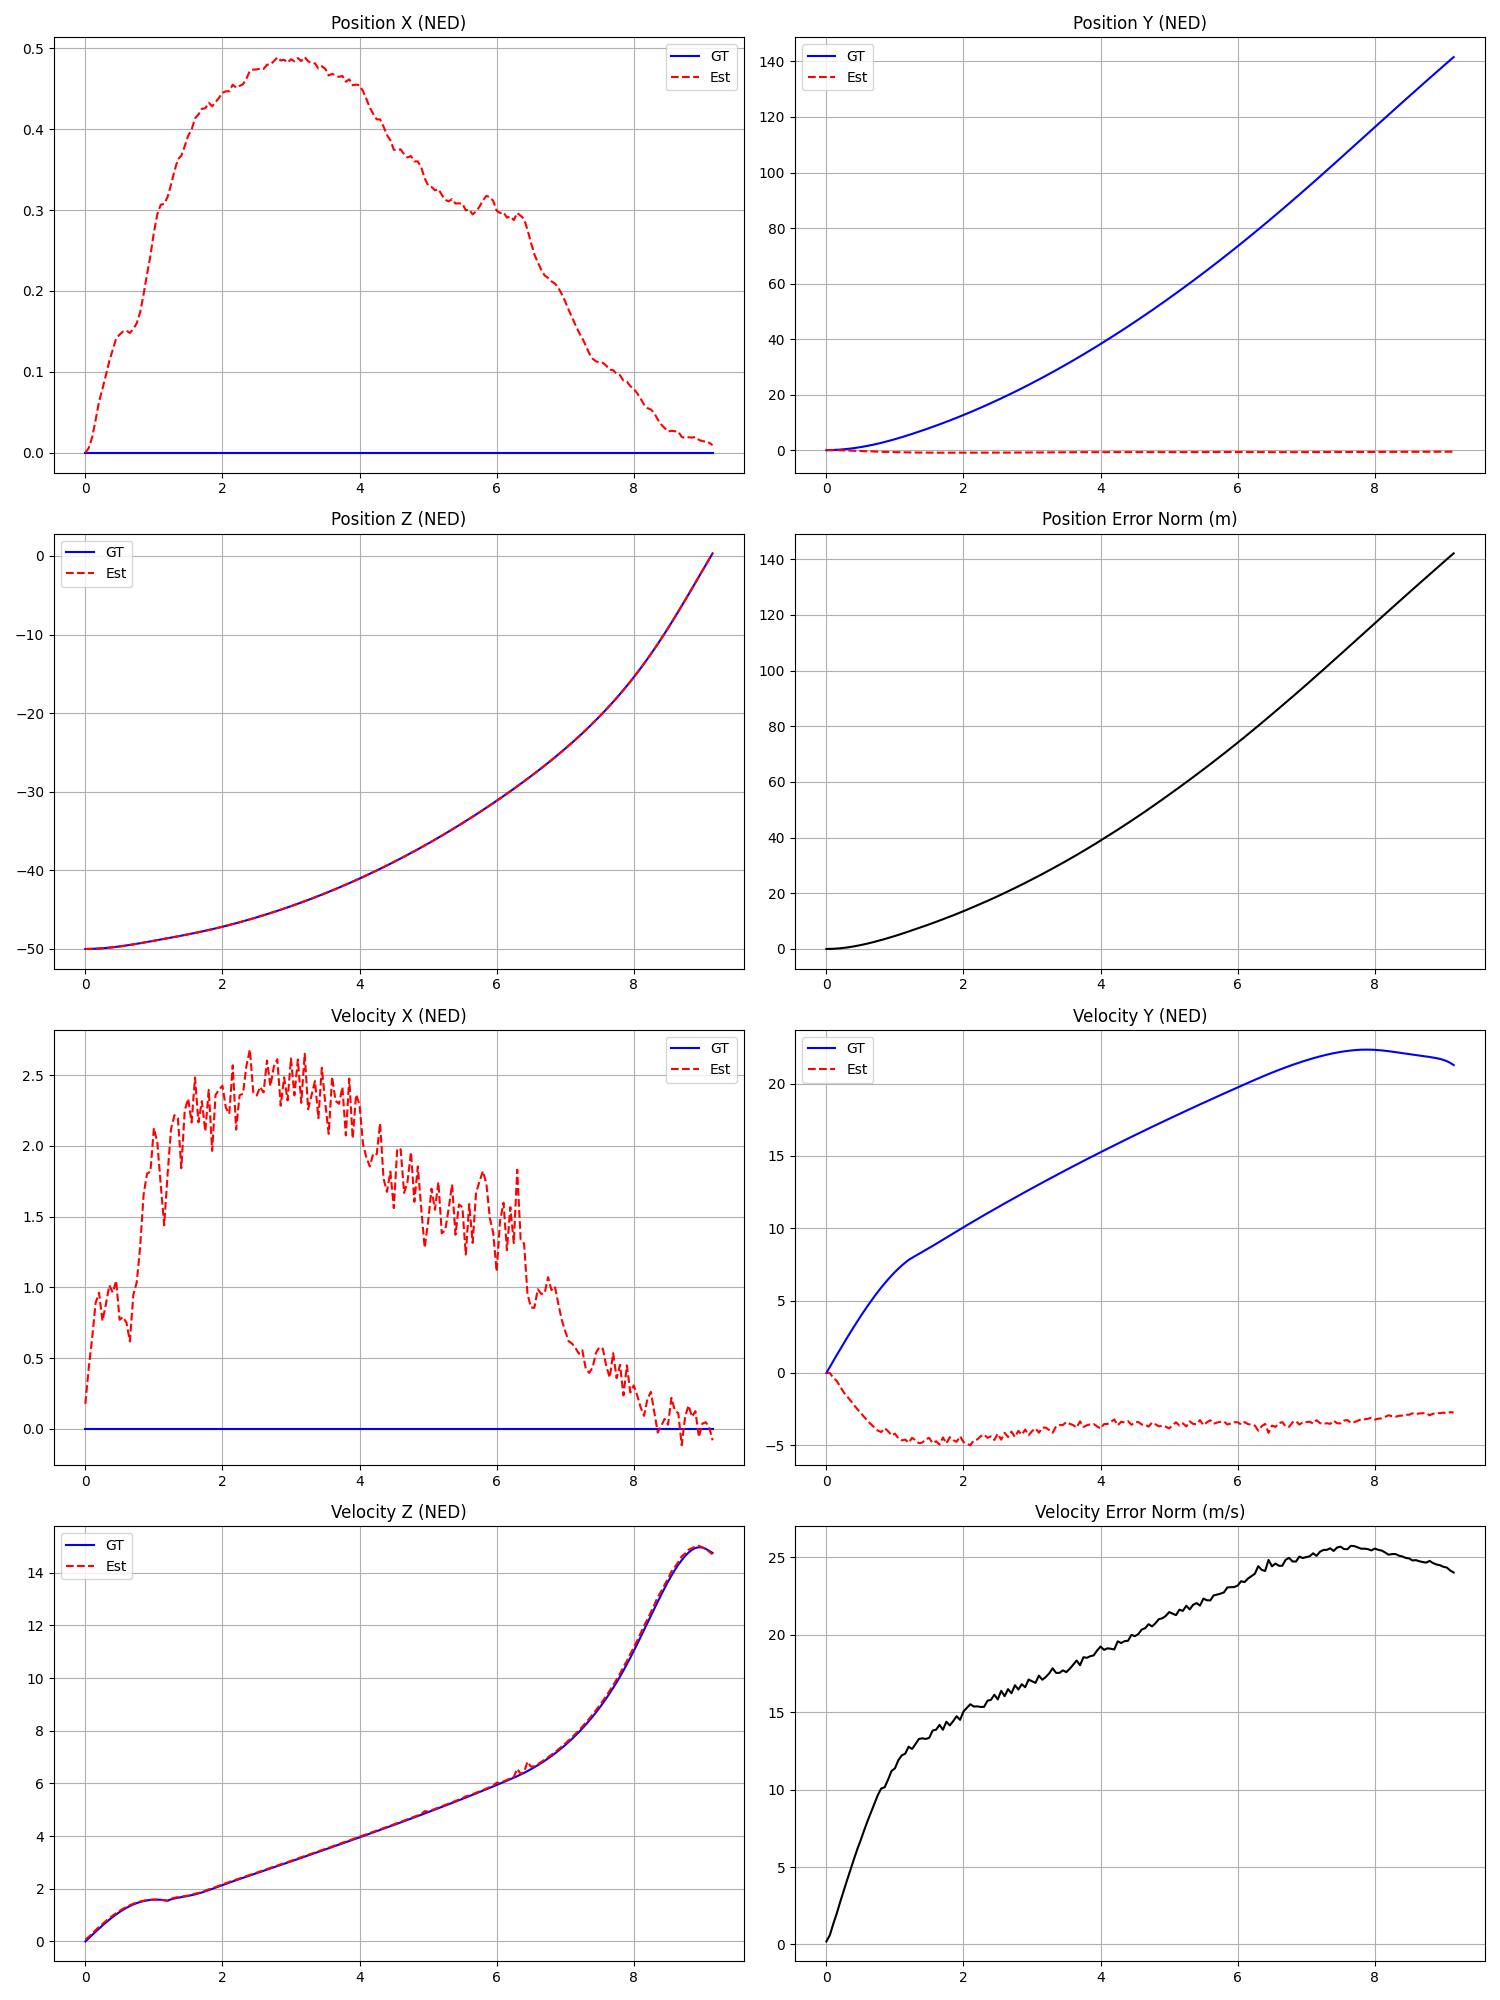
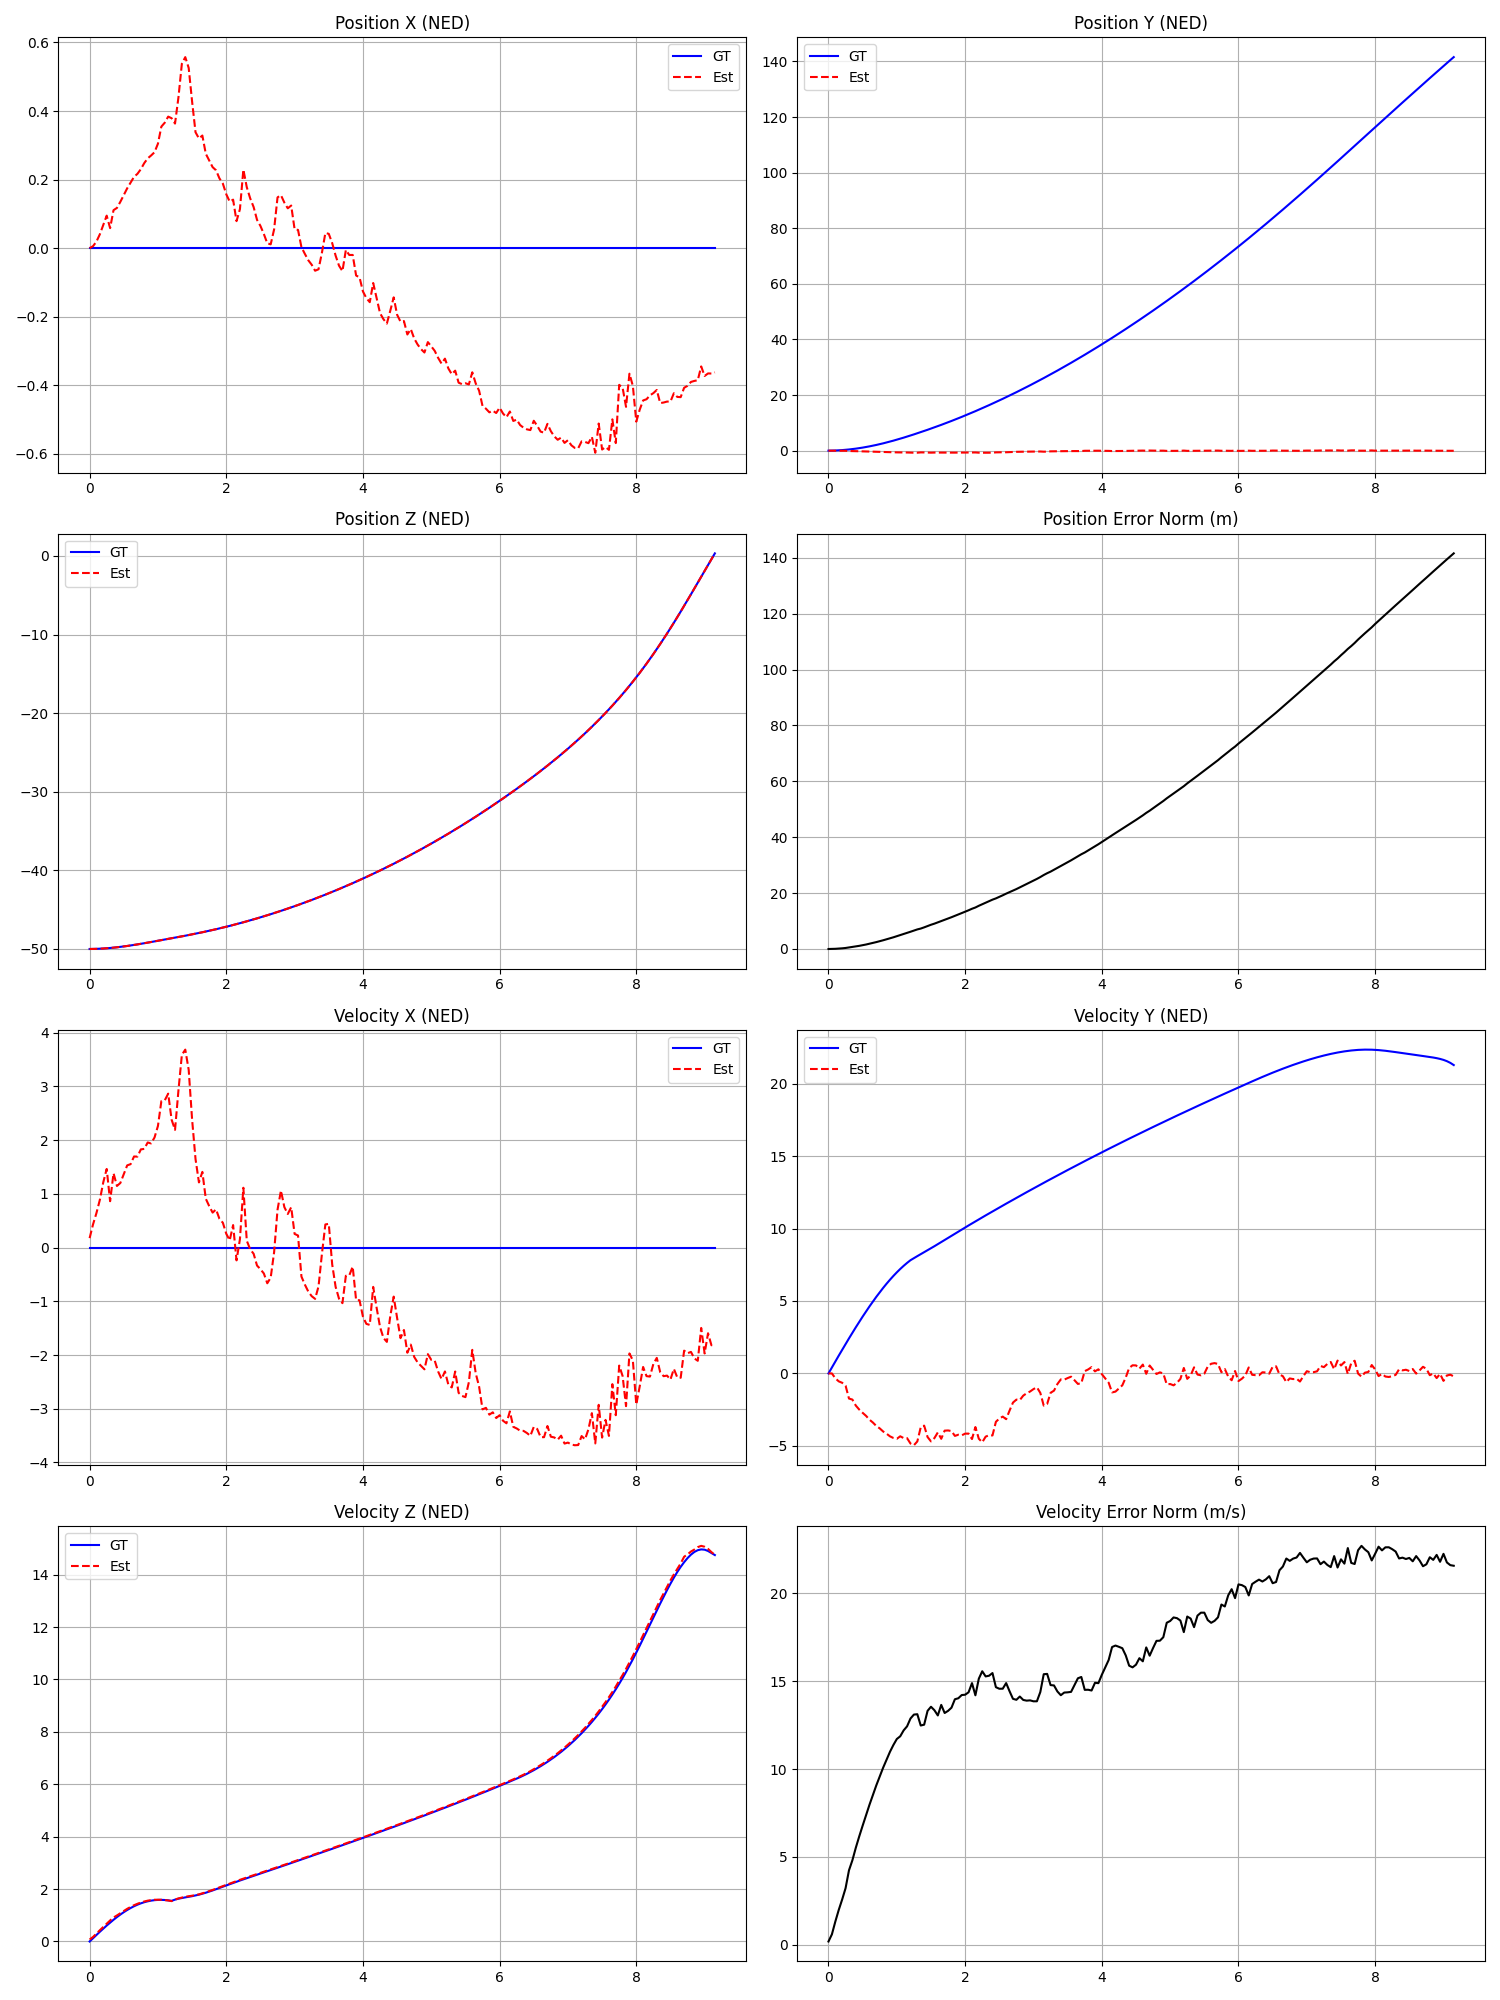
Implement Dual-Window Keyframe VIO Strategy
- Enhanced `vision/sliding_window_estimator.py` with a Keyframe Selection strategy in `add_frame`.
- The estimator now drops intermediate frames ("sparsifies") if the second-newest frame is too close in time (< 0.2s) to its predecessor, maintaining a longer temporal baseline in the window.
- Implemented `merge_imu_constraints` to correctly combine IMU pre-integration factors when a frame is dropped.
- Verified with `tests/validate_vio_accuracy.py`: Velocity error reduced to ~16.6m/s (from ~19m/s) and Max Velocity Error to ~22.7m/s (from ~25.7m/s).
- This approach captures longer-term Pz connections for better scale observability while keeping the window size manageable.

diff --git a/vision/sliding_window_estimator.py b/vision/sliding_window_estimator.py
@@ -85,22 +85,75 @@ class SlidingWindowEstimator:
                 self.points[pid] = {'p': None, 'obs': []}
             self.points[pid]['obs'].append((curr_frame_idx, uv[0], uv[1]))
 
-        # Marginalize/Slide if full
+        # Marginalize/Slide if full (Dual Window / Keyframe Strategy)
         if len(self.frames) > self.window_size:
-            # Simple strategy: Fix first frame (Prior) or drop it?
-            # ICE-BA marginalizes. Here we just drop and fix the new oldest frame (Keyframe-based).
-            # To keep it simple: Just pop(0) and delete points observed only in 0.
+            # Check if second newest frame (frames[-2]) is "too close" to third newest (frames[-3])
+            # If so, drop it (Sparsify recent history to keep older context).
+            # Else, drop the oldest (Slide window).
 
-            # Note: A proper marginalization prior is hard to implement quickly.
-            # We will assume "Fixed Lag Smoother" where we just optimize the window and discard history.
-            removed_frame = self.frames.pop(0)
+            # Note: frames[-1] is the one just added.
+            # Compare frames[-2] and frames[-3].
 
-            # Shift observation indices
+            drop_idx = 0 # Default: Drop oldest (Slide)
+
+            if len(self.frames) >= 3:
+                t_mid = self.frames[-2]['t']
+                t_prev = self.frames[-3]['t']
+
+                # If frames are closer than 0.2s (approx 4 frames @ 20Hz), drop the intermediate one.
+                # This enforces a spacing of at least 0.2s in the window history,
+                # effectively keeping frames [t, t-dt, t-0.2, t-0.4, ...].
+                if (t_mid - t_prev) < 0.2:
+                    drop_idx = len(self.frames) - 2
+
+            if drop_idx > 0:
+                # Merge IMU constraints across the dropped frame
+                # dropping 'i'. merging (i-1 -> i) and (i -> i+1) into (i-1 -> i+1).
+                # preint at 'i' is (i-1 -> i). preint at 'i+1' is (i -> i+1).
+                # Target: preint at 'i+1' becomes (i-1 -> i+1).
+
+                c1 = self.frames[drop_idx]['imu_preint'] # i-1 -> i
+                c2 = self.frames[drop_idx+1]['imu_preint'] # i -> i+1
+
+                # Merge logic
+                # R_i = R_{i-1} * dq1
+                # v_i = v_{i-1} + g*dt1 + R_{i-1} * dv1
+                # p_i = p_{i-1} + v_{i-1}*dt1 + 0.5*g*dt1^2 + R_{i-1} * dp1
+
+                # We need c_merged such that:
+                # p_{i+1} = p_{i-1} + v_{i-1}*dt_total + ... + R_{i-1} * dp_merged
+
+                # Derived Merge Rule (Pos/Vel in Body Frame of i-1):
+                # dt_m = dt1 + dt2
+                # dq_m = dq1 * dq2
+                # dv_m = dv1 + dq1.apply(dv2)
+                # dp_m = dp1 + dv1 * dt2 + dq1.apply(dp2)
+
+                c_merged = {
+                    'dt': c1['dt'] + c2['dt'],
+                    'dq': c1['dq'] * c2['dq'],
+                    'dv': c1['dv'] + c1['dq'].apply(c2['dv']),
+                    'dp': c1['dp'] + c1['dv'] * c2['dt'] + c1['dq'].apply(c2['dp'])
+                }
+
+                self.frames[drop_idx+1]['imu_preint'] = c_merged
+
+            # Remove frame
+            self.frames.pop(drop_idx)
+
+            # Shift observation indices for points
+            # If obs frame_idx < drop_idx: no change.
+            # If obs frame_idx == drop_idx: remove observation.
+            # If obs frame_idx > drop_idx: decrement frame_idx.
+
             for pid in list(self.points.keys()):
                 new_obs = []
                 for (fidx, u, v) in self.points[pid]['obs']:
-                    if fidx > 0:
+                    if fidx < drop_idx:
+                        new_obs.append((fidx, u, v))
+                    elif fidx > drop_idx:
                         new_obs.append((fidx - 1, u, v))
+                    # else: dropped
                 self.points[pid]['obs'] = new_obs
                 if not new_obs:
                     del self.points[pid]
